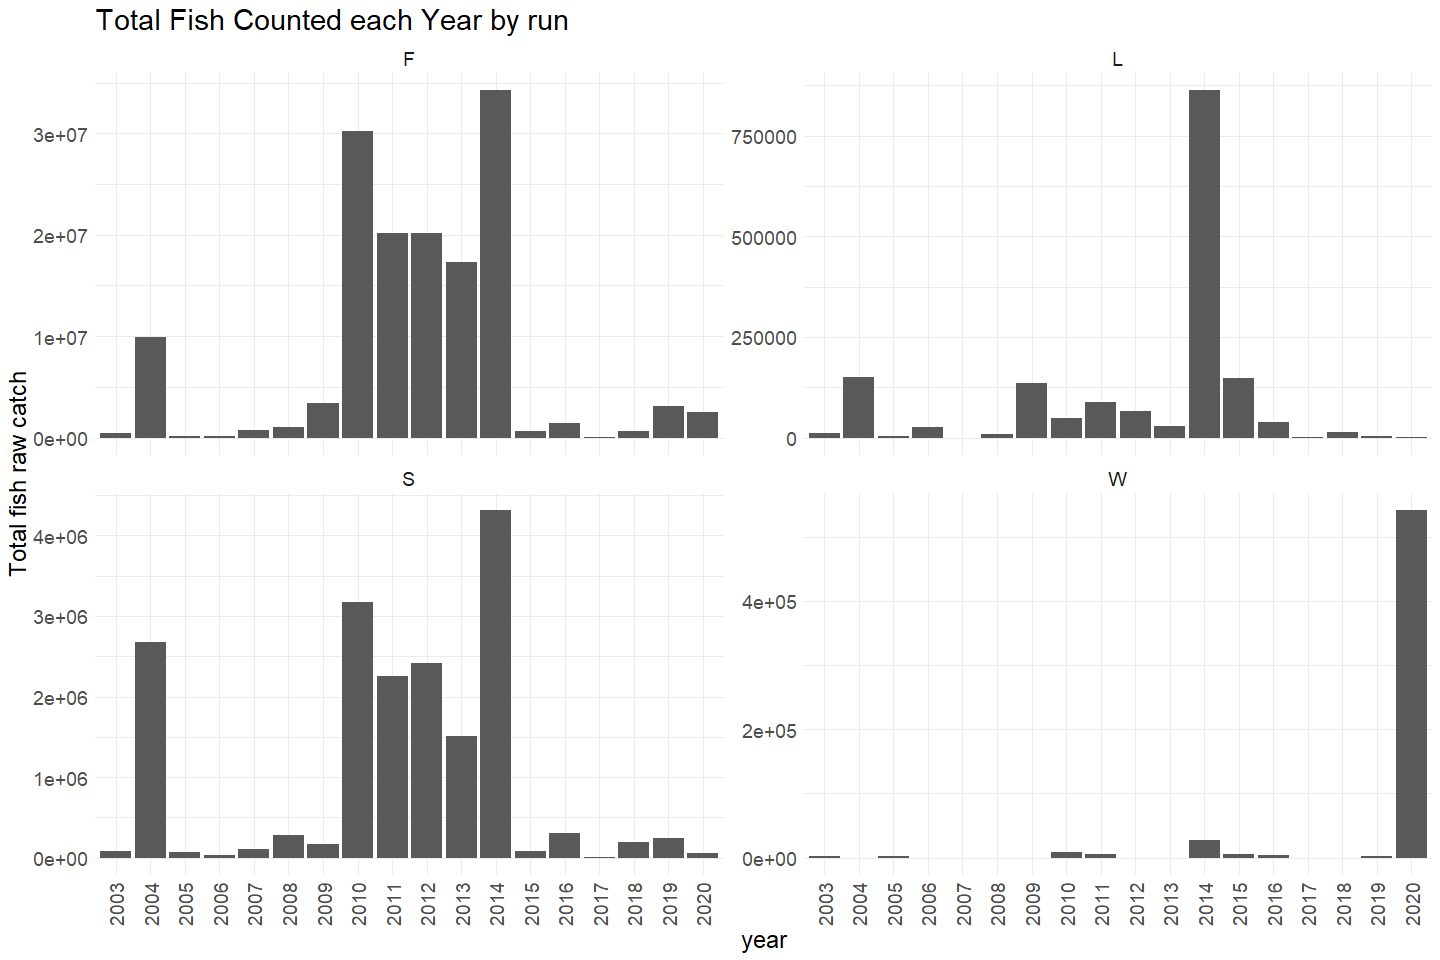
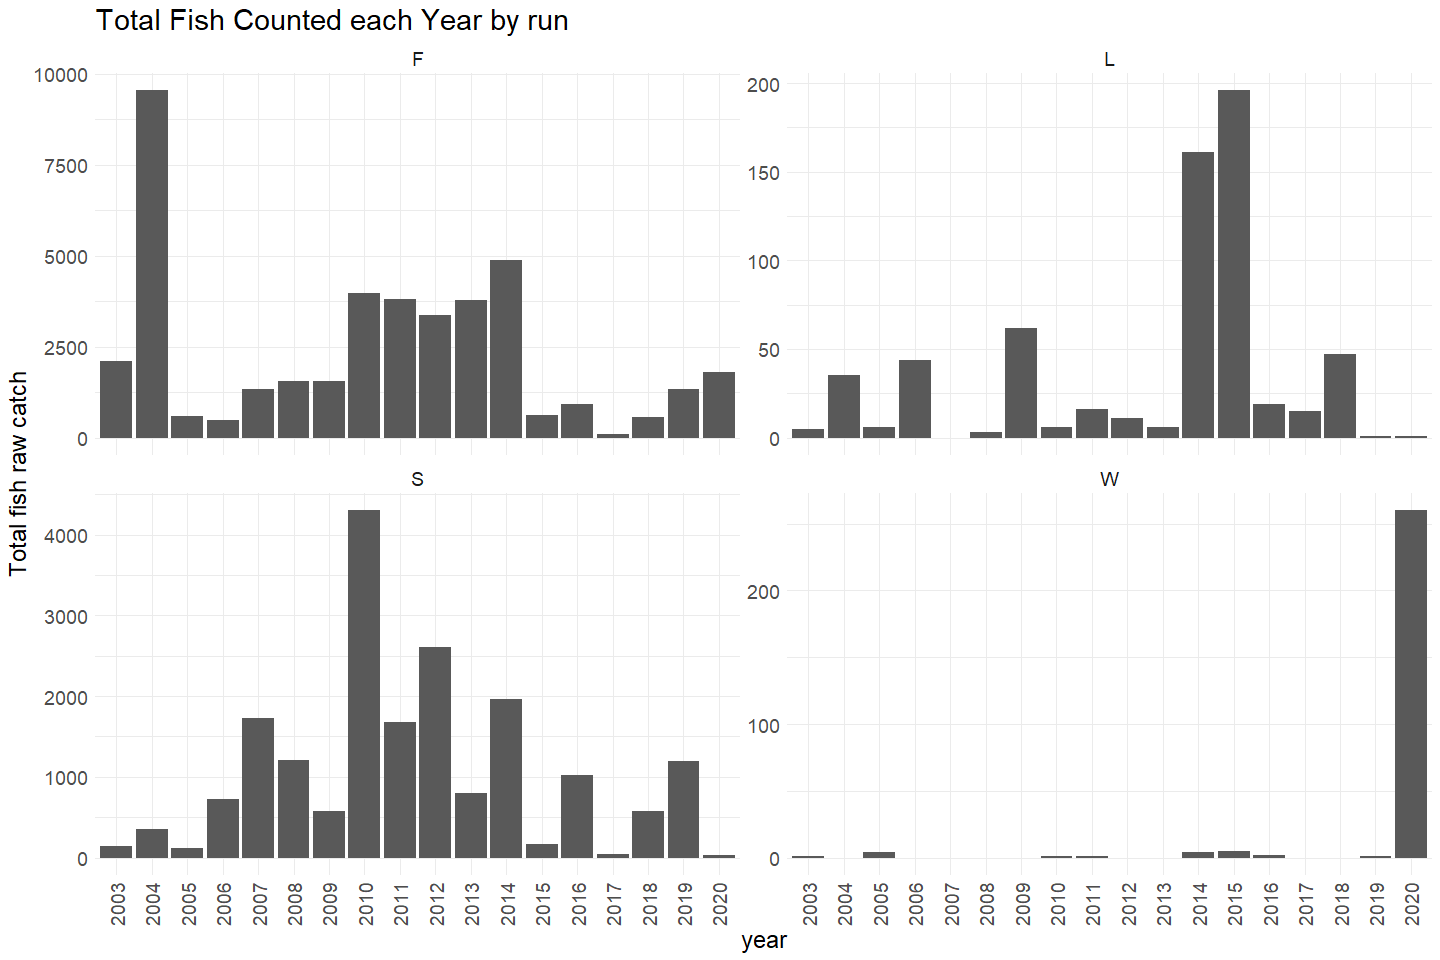
Fixes battle creek count graph

diff --git a/scripts/rst/battle-creek/battle_creek_rst_catch_qc.md b/scripts/rst/battle-creek/battle_creek_rst_catch_qc.md
@@ -229,6 +229,8 @@ are split into races, zero fork lengths have been assigned
 
 ``` r
 cleaner_rst_count %>% 
+  group_by(date) %>%
+  summarise(total_daily_catch = sum(count)) %>%
   filter(year(date) > 2014, year(date) < 2021) %>%
   mutate(water_year = ifelse(month(date) %in% 10:12, year(date) + 1, year(date))) %>% 
   left_join(sac_indices) %>%
@@ -236,9 +238,6 @@ cleaner_rst_count %>%
          fake_year = if_else(month(date) %in% 10:12, 1900, 1901),
          fake_date = as.Date(paste0(fake_year,"-", month(date), "-", day(date)))) %>%
   filter(water_year < 2021) %>%
-  group_by(date) %>%
-  mutate(total_daily_catch = sum(count)) %>%
-  ungroup() %>%
   ggplot(aes(x = fake_date, y = total_daily_catch, fill = year_type)) + 
   geom_col() + 
   scale_x_date(labels = date_format("%b"), limits = c(as.Date("1900-10-01"), as.Date("1901-06-01")), date_breaks = "1 month") + 
@@ -263,8 +262,8 @@ cleaner_rst_count  %>%
          run %in% c("F", "L", "S", "W")
          ) %>% 
   mutate(year = as.factor(year(date))) %>%
-  group_by(year) %>%
-  mutate(total_yearly_catch = sum(count)) %>%
+  group_by(year, run) %>%
+  summarise(total_yearly_catch = sum(count)) %>%
   ggplot(aes(x = year, y = total_yearly_catch)) + 
   geom_col() + 
   theme_minimal() +
@@ -274,6 +273,8 @@ cleaner_rst_count  %>%
         axis.text.x = element_text(angle = 90, vjust = 0.5, hjust=1)) + 
   facet_wrap(~run, scales = "free_y")
 ```
+
+    ## `summarise()` has grouped output by 'year'. You can override using the `.groups` argument.
 
 ![](battle_creek_rst_catch_qc_files/figure-gfm/unnamed-chunk-11-1.png)<!-- -->
 
